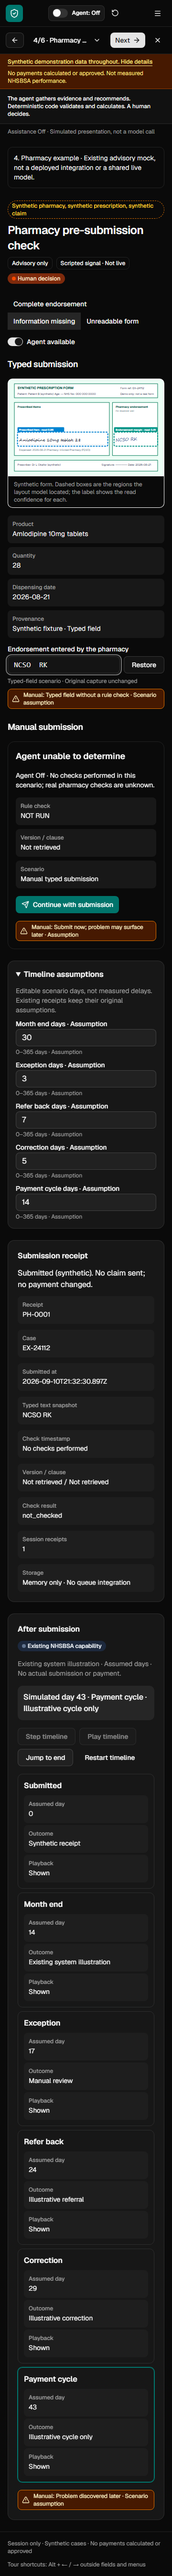
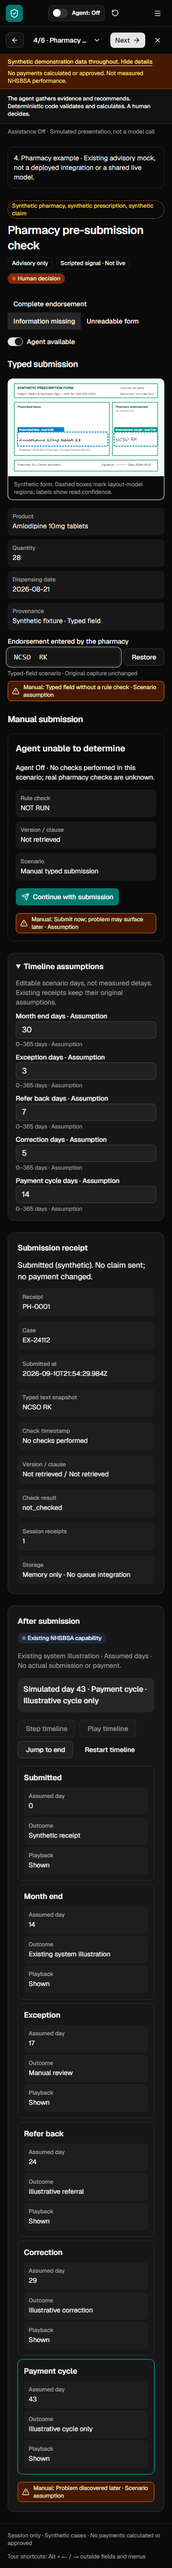
fix: Task 4: reject unsupported pharmacy endorsements
🛡 - Generated by Copilot

Changed region(s): [[0.0306, 0.0, 0.9472, 0.9648], [0.7639, 0.4668, 0.825, 0.498]]

diff --git a/BSA/tests/e2e/pharmacy.spec.ts b/BSA/tests/e2e/pharmacy.spec.ts
@@ -96,6 +96,47 @@ test("Task4 B applies only the suggested dispensing date, retains receipt and ne
   await expect(page.getByRole("radio", { name: /^Refer back \(as recommended\)/ })).toBeChecked();
 });
 
+for (const text of ["BB RK", "BB RK 21/08/26", "XP RK", "XP RK 21/08/26"]) {
+  test(`Task4 B edited to ${text} stops outside NCSO coverage but can still submit`, async ({ page }) => {
+    await page.goto("pharmacy");
+    await page.getByRole("banner").getByRole("switch").setChecked(true);
+    // Establish a successful revision first to detect stale rule/ready reuse.
+    await page.getByRole("button", { name: "Apply correction", exact: true }).click();
+    await expect(page.locator("[data-pharmacy-status]")).toHaveText("Ready to submit");
+    await page.getByLabel("Endorsement entered by the pharmacy", { exact: true }).fill(text);
+    await expect(page.locator("[data-pharmacy-status]")).toHaveText("Agent unable to determine");
+    await expect(page.getByRole("list", { name: "Scripted pharmacy process" }).locator("li")).toHaveText([
+      "CapturedPASS", "Endorsement typeSTOPPED", "Dispensing-date versionNOT RUN", "ClauseNOT RUN", "RequirementsNOT RUN",
+    ]);
+    await expect(page.getByRole("region", { name: "Validated synthetic rule" })).toHaveCount(0);
+    await expect(page.getByRole("list", { name: "Requirement checkboxes" })).toHaveCount(0);
+    await expect(page.getByRole("button", { name: "Apply correction", exact: true })).toHaveCount(0);
+    const submit = page.getByRole("button", { name: "Continue with submission", exact: true });
+    await expect(submit).toBeEnabled();
+    await submit.click();
+    const receipt = page.getByRole("region", { name: "Submission receipt" });
+    await expect(receipt).toContainText(text);
+    await expect(receipt).toContainText("unable");
+    await expect(receipt).toContainText("Not retrieved / Not retrieved");
+    await page.getByRole("button", { name: "Jump to end", exact: true }).click();
+    const timeline = page.getByRole("list", { name: "Submission timeline" });
+    await expect(timeline.getByText("Not needed", { exact: true })).toHaveCount(0);
+    await expect(timeline).toContainText("Illustrative referral");
+  });
+}
+
+test("Task4 D combined caption stays within 25 words and retains synthetic confidence labels", async ({ page }) => {
+  await page.goto("pharmacy");
+  await page.getByRole("radio", { name: "Unreadable form", exact: true }).click();
+  const caption = page.locator("figcaption");
+  const text = await caption.innerText();
+  expect(text.match(/[\p{L}\p{N}]+(?:['’\u002d][\p{L}\p{N}]+)*/gu)?.length ?? 0).toBeLessThanOrEqual(25);
+  await expect(caption).toContainText("Synthetic form");
+  await expect(caption).toContainText("labels show read confidence");
+  await expect(caption).toContainText("Deliberately poor scan");
+  await expect(page.locator("figure svg")).toContainText("read 0.");
+});
+
 test("Task4 corrected B stays corrected when submitted Off, without performed checks", async ({ page }) => {
   await page.goto("pharmacy");
   const flag = page.getByRole("banner").getByRole("switch");

diff --git a/BSA/tests/unit/pharmacy.test.ts b/BSA/tests/unit/pharmacy.test.ts
@@ -69,6 +69,32 @@ describe("scripted pharmacy checks", () => {
     expect(checkPharmacy(d, d.extracted.endorsementText)).toMatchObject({ status: "unable", stages: ["STOPPED", "NOT RUN", "NOT RUN", "NOT RUN", "NOT RUN"] });
     expect(completePharmacyScenario(d, d.extracted.endorsementText, checkPharmacy(fixture("A"), d.extracted.endorsementText))).toBe(false);
   });
+  it.each(["BB RK", "BB RK 21/08/26", "XP RK", "XP RK 21/08/26"])("unsupported B substitution %s cannot become ready or avoid referral", (text) => {
+    const c = fixture("B"), result = checkPharmacy(c, text);
+    expect(result).toMatchObject({
+      status: "unable", facts: { type: text.startsWith("BB") ? "BB" : "XP", quotedText: text },
+      version: null, clause: null, checks: [], agreement: "3/3 scripted readings",
+      stages: ["PASS", "STOPPED", "NOT RUN", "NOT RUN", "NOT RUN"],
+    });
+    expect(result.gap).toBe("Outside validated NCSO coverage; manual review");
+    expect(pharmacyDateCorrection(c, text)).toBe(text);
+    for (const checked of [result, null]) {
+      const completeScenario = completePharmacyScenario(c, text, checked);
+      expect(completeScenario).toBe(false);
+      const receipt = { ...receiptFor("B", checked !== null), completeScenario,
+        precheck: pharmacySnapshot(text, c.extracted.dispensingDate, checked ? "scripted" : "off", checked, checked ? at : null) };
+      const timeline = pharmacyTimeline(receipt);
+      expect(timeline.some((stage) => stage.outcome === "Not needed")).toBe(false);
+      expect(timeline.find((stage) => stage.label === "Refer back")).toMatchObject({ needed: true, outcome: "Illustrative referral" });
+      expect(receipt.precheck).toMatchObject({ tariffVersion: null, clauseId: null, checks: [] });
+    }
+  });
+  it.each(["", "unknown RK", "NCSOO RK", "NCSO", "NCSO 21/08/26"])("date correction does not manufacture an initialled NCSO endorsement from %s", (text) => {
+    expect(pharmacyDateCorrection(fixture("B"), text)).toBe(text);
+  });
+  it.each(["A", "D"] as const)("date correction is unavailable for scenario %s", (scenario) => {
+    expect(pharmacyDateCorrection(fixture(scenario), "NCSO RK")).toBe("NCSO RK");
+  });
   it.each(["NCSO RK 31/02/26", "NCSO RK 21/08", "NCSO RK 99/99/26", "NCSO RK 29/02/25"])("rejects false date matches: %s", (text) => {
     expect(interpretPharmacyText(text).dated).toBe(false);
   });

diff --git a/BSA/src/lib/domain/pharmacy-check.ts b/BSA/src/lib/domain/pharmacy-check.ts
@@ -32,7 +32,8 @@ export function interpretPharmacyText(text: string): EndorsementFacts {
 }
 
 export function pharmacyDateCorrection(c: ExceptionCase, text: string): string {
-  if (c.scenario !== "B" || interpretPharmacyText(text).dated) return text;
+  const facts = interpretPharmacyText(text);
+  if (c.scenario !== "B" || facts.type !== "NCSO" || !facts.initialled || facts.dated) return text;
   const [year, month, day] = c.extracted.dispensingDate.split("-");
   return `${text.trimEnd()} ${day}/${month}/${year.slice(2)}`;
 }
@@ -51,6 +52,8 @@ export function checkPharmacy(c: ExceptionCase, text: string): PharmacyCheck {
   const agreement = `${consensus.agree}/${consensus.total} scripted readings`;
   if (consensus.agree < AGREEMENT_THRESHOLD || !consensus.consensus || ["UNKNOWN", "NONE"].includes(consensus.consensus.type)) return stop(1, "Endorsement type unresolved", agreement);
   const facts = { ...consensus.consensus, quotedText: text, note: "Scripted typed-field reading" };
+  // Validated pharmacy coverage is NCSO only, not any type with a tariff clause.
+  if (facts.type !== "NCSO") return stop(1, "Outside validated NCSO coverage; manual review", agreement, facts);
   const version = versionForDate(c.extracted.dispensingDate);
   if (!version) return stop(2, "Dispensing-date version unresolved", agreement, facts);
   const clause = version.clauses.find((entry) => entry.endorsementType === facts.type) ?? null;

diff --git a/BSA/src/components/demo/pharmacy-workbench.tsx b/BSA/src/components/demo/pharmacy-workbench.tsx
@@ -36,7 +36,7 @@ export function PharmacyPage() {
   const result = current.result;
   const mode = !agentEnabled ? "off" : !agentAvailable ? "unavailable" : !result ? "pending" : "scripted";
   const status = !enabled ? "Agent unable to determine" : !result ? "Scripted check in progress" : result.status === "ready" ? "Ready to submit" : result.status === "missing" ? "Information may be missing" : "Agent unable to determine";
-  const canApply = enabled && result?.status === "missing" && scenario === "B" && result.checks.some((entry) => entry.id === "dated" && entry.met === false);
+  const canApply = enabled && result?.status === "missing" && scenario === "B" && result.facts?.type === "NCSO" && result.facts.initialled && result.checks.some((entry) => entry.id === "dated" && entry.met === false);
   const correction = canApply ? pharmacyDateCorrection(c, text) : text;
   const product = productByCode(c.extracted.productCode);
   const stoppedAtCapture = scenario === "D" || c.imageQuality < QUALITY_THRESHOLD || !product;

diff --git a/BSA/src/components/demo/prescription-form.tsx b/BSA/src/components/demo/prescription-form.tsx
@@ -93,8 +93,8 @@ export function PrescriptionForm({
       </svg>
       {!compact && (
         <figcaption className="border-t bg-background px-3 py-2 text-xs text-muted-foreground">
-          Synthetic form. Dashed boxes are the regions the layout model located; the label shows the read confidence for each.
-          {poor && " This scan is deliberately poor: skewed, faint and speckled."}
+          Synthetic form. Dashed boxes mark layout-model regions; labels show read confidence.
+          {poor && " Deliberately poor scan: skewed, faint and speckled."}
         </figcaption>
       )}
     </figure>

diff --git a/BSA/docs/PROGRESS.md b/BSA/docs/PROGRESS.md
@@ -9,7 +9,7 @@ ms.date: 2026-09-10
 * [x] Task 1: synthetic baseline model, calculator and shared scene estimates (ad7d5d8)
 * [x] Task 2: local copy, attribution, default-Off and shared motion checks (b7c4451)
 * [x] Task 3: shared scene estimates and six-stage pipeline with individual pain markers (96bf097)
-* [x] Task 4: manual/assisted pharmacy check, immutable receipts and illustrative timeline (local gates passed; uncommitted)
+* [x] Task 4: published increment a131bad (user-reported); P1 correction passes fresh local gates, follow-up commit pending
 * [ ] Task 5
 * [ ] Task 6
 * [ ] Task 7
@@ -36,9 +36,46 @@ See [contracts](parallel-contracts.md)
 for ownership, signatures, branch names and integration order. Task 4 local
 gates now pass below. The lifecycle signatures and other streams remain untouched.
 
-## Task 4 local gate and integration boundary
+## Task 4 P1 corrective finding
 
-Task 4 only is locally complete, uncommitted. Final check exit 0, 425 unit tests
+The published Task 4 commit a131bad is user-reported and is not rewritten here.
+Review found that substituting BB in Scenario B could pass an unrelated clause:
+the known endorsement-required boolean did not establish validated type coverage.
+The previous local gates below did not cover this substitution and are historical,
+not verification of this correction.
+
+Pharmacy coverage now stops non-NCSO types at endorsement type, with unable status
+and no retrieved version, clause or requirement checks. Original D still stops
+at capture. Date correction requires Scenario B, typed NCSO and initials; it
+never manufactures an endorsement. Continue with submission remains available.
+Plain and dated BB/XP regressions cover both readiness and illustrative referral
+handling; browser regressions first establish Ready to catch stale result reuse.
+The combined poor-scan caption is shortened without removing synthetic or read
+confidence labels, with a dedicated 25-word browser assertion.
+
+Fresh sequential verification completed: check exit 0, 436 units in ten files
+passed (exit 0), and all 409 production /BSA/ Chromium tests passed in 6.1 minutes
+with the dot reporter (exit 0). No failures, skips or retries were reported.
+This includes eleven new unit cases and five new browser cases. The combined
+D caption contains 19 words and its dedicated browser assertion passed.
+The terminal returned P1_CHECK_EXIT=0, P1_UNIT_EXIT=0 and P1_BROWSER_EXIT=0;
+no final test execution remains pending.
+
+The client scan checked 115 files with zero forbidden matches. The production
+privacy check scanned nine emitted files and three served assets, 928,929 bytes,
+with zero private matches. JS is 803.69 kB, 246.50 kB gzip; the existing Vite
+large-chunk warning remains. Historical screenshot and audit counts below were
+not independently recounted for this correction.
+
+The earlier runner was not interrupted: the only remaining test runner before
+validation was the stale 13:31 process, with no children or port 4173 listener.
+Frozen store, navigation, gate and other streams are untouched. No Git, account
+or deployment actions were performed. The main agent owns the follow-up commit
+without rewriting published history; no CI or hosted result is claimed here.
+
+## Task 4 historical local gate and integration boundary
+
+Before the corrective finding, Task 4 local gates recorded check exit 0, 425 unit tests
 in ten files and 404 production /BSA/ Chromium tests in 5.8 minutes, exit 0.
 No skipped tests or retries. All 64 unique axe audits passed with zero violations,
 including twelve Task 4 A/B/D, On/Off, light/desktop and dark/phone combinations.
